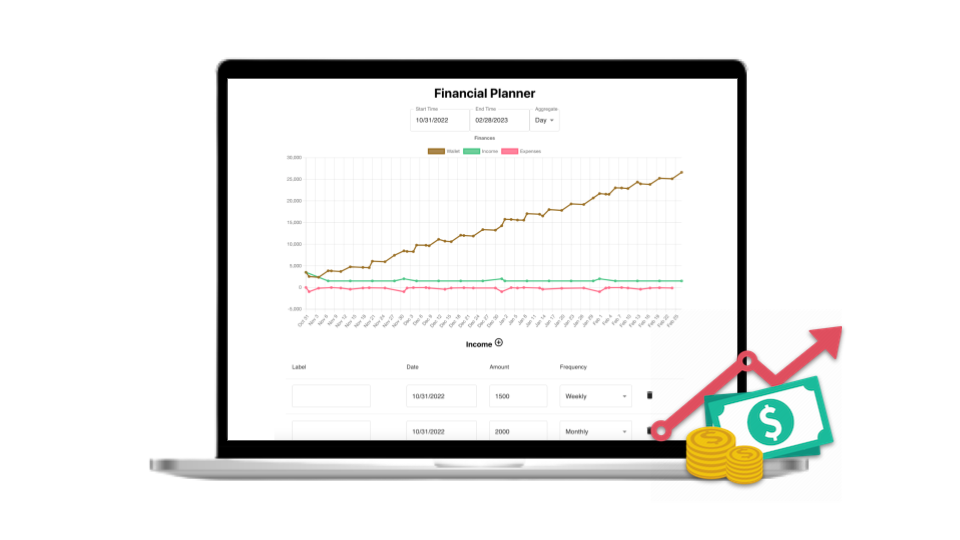
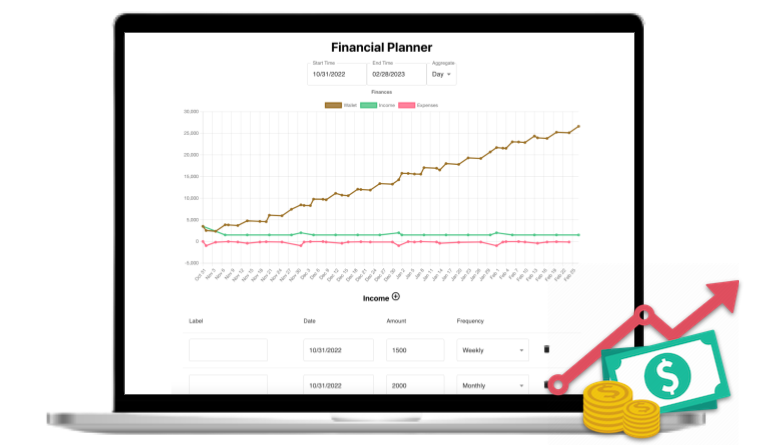
fixed mismatching sizes

diff --git a/src/index.html b/src/index.html
@@ -86,8 +86,8 @@
                 <section id="projects-section">
         
                     <!-- P1 -->
-                    <div data-aos="fade-right" class="my-4 md:flex flex-row">
-                        <div class="mt-auto mr-auto mb-auto ml-0 md:w-80">
+                    <div data-aos="fade-right" class="my-4 md:grid md:grid-cols-3 md:gap-8">
+                        <div class="md:col-span-1 md:mt-auto md:mb-auto md:mr-auto">
                             <a href="https://www.colegannaway.com/sudoku-solver-front-end/">
                                 <h1 class="text-2xl text-center font-bold md:text-4xl md:text-left">
                                     Sudoku Solver
@@ -104,11 +104,13 @@
                                     &rarr;</span>
                             </a>
                         </div>
-                        <div>
-                            <a href="https://www.colegannaway.com/sudoku-solver-front-end/">
-                                <img class="" src="images/SudokuSolverPreview.png"
-                                    alt="Sudoku Solver Preview Image"></img>
-                            </a>
+                        <div class="col-span-2 flex">
+                            <div class="m-auto">
+                                <a href="https://www.colegannaway.com/sudoku-solver-front-end/">
+                                    <img class="" src="images/SudokuSolverPreview.png"
+                                        alt="Sudoku Solver Preview Image"></img>
+                                </a>
+                            </div>
                         </div>
                         <div class="md:hidden text-center">
                             <a href="https://www.colegannaway.com/sudoku-solver-front-end/">
@@ -120,8 +122,8 @@
                     <div class="border-b border-gray-400 m-auto"></div>
 
                     <!-- P2 -->
-                    <div data-aos="fade-right" class="my-4 md:flex flex-row">
-                        <div class="mt-auto mr-auto mb-auto ml-0 md:w-80">
+                    <div data-aos="fade-right" class="my-4 md:grid md:grid-cols-3 md:gap-8">
+                        <div class="md:col-span-1 md:mt-auto md:mb-auto md:mr-auto">
                             <a href="https://www.colegannaway.com/financial-planner/">
                                 <h1 class="text-2xl text-center font-bold md:text-4xl md:text-left">
                                     Financial Planner
@@ -139,11 +141,13 @@
                                     &rarr;</span>
                             </a>
                         </div>
-                        <div>
-                            <a href="https://www.colegannaway.com/financial-planner/">
-                                <img class="" src="images/FinancialPlannerPreview.png"
-                                    alt="Sudoku Solver Preview Image"></img>
-                            </a>
+                        <div class="col-span-2 flex">
+                            <div class="m-auto">
+                                <a href="https://www.colegannaway.com/financial-planner/">
+                                    <img class="" src="images/FinancialPlannerPreview.png"
+                                        alt="Sudoku Solver Preview Image"></img>
+                                </a>
+                            </div>
                         </div>
                         <div class="md:hidden text-center">
                             <a href="https://www.colegannaway.com/financial-planner/">
@@ -156,8 +160,8 @@
                     <div class="border-b border-gray-400 m-auto"></div>
 
                     <!-- P3 -->
-                    <div data-aos="fade-right" class="my-4 md:flex flex-row">
-                        <div class="mt-auto mr-auto mb-auto ml-0 md:w-80">
+                    <div data-aos="fade-right" class="my-4 md:grid md:grid-cols-3 md:gap-8">
+                        <div class="md:col-span-1 md:mt-auto md:mb-auto md:mr-auto">
                             <a href="https://www.dipndrive.com/">
                                 <h1 class="text-2xl text-center font-bold md:text-4xl md:text-left">
                                     Dip N Drive
@@ -174,13 +178,15 @@
                                     &rarr;</span>
                             </a>
                         </div>
-                        <div>
-                            <a href="https://www.dipndrive.com/">
-                                <video playsinline autoplay loop muted style="width: 100%; max-width: 600px;">
-                                    <source src="videos/DipNDrive-Website-Video.mp4" type="video/mp4" />
-                                    Your browser does not support the video tag.
-                                </video>
-                            </a>
+                        <div class="col-span-2 flex">
+                            <div class="m-auto">
+                                <a href="https://www.dipndrive.com/">
+                                    <video playsinline autoplay loop muted style="max-height: 450px;">
+                                        <source src="videos/DipNDrive-Website-Video.mp4" type="video/mp4" />
+                                        Your browser does not support the video tag.
+                                    </video>
+                                </a>
+                            </div>
                         </div>
                         <div class="md:hidden text-center">
                             <a href="https://www.dipndrive.com/">
@@ -193,8 +199,8 @@
                     <div class="border-b border-gray-400 m-auto"></div>
 
                     <!-- P4 -->
-                    <div data-aos="fade-right" class="my-4 md:flex flex-row">
-                        <div class="mt-auto mr-auto mb-auto ml-0 md:w-80">
+                    <div data-aos="fade-right" class="my-4 md:grid md:grid-cols-3 md:gap-8">
+                        <div class="md:col-span-1 md:mt-auto md:mb-auto md:mr-auto">
                             <a href="https://www.colegannaway.com/up-and-down-the-river/">
                                 <h1 class="text-2xl text-center font-bold md:text-4xl md:text-left">
                                     Up And Down The River
@@ -212,11 +218,17 @@
                                     &rarr;</span>
                             </a>
                         </div>
-                        <div>
-                            <a href="https://www.colegannaway.com/up-and-down-the-river/">
-                                <img class="" src="images/UpAndDownTheRiverPreview.png"
-                                    alt="Up And Down The River Preview Image"></img>
-                            </a>
+                        <div class="col-span-2 flex">
+                            <div class="m-auto">
+                                <a href="https://www.colegannaway.com/up-and-down-the-river/">
+                                    <img src="images/UpAndDownTheRiverPreview.png"
+                                        alt="Up And Down The River Preview Image"
+                                        style="vertical-align: middle;"
+                                        ></img>
+                                </a>
+                            </div>
+                            <div class="flex">
+                            </div>
                         </div>
                         <div class="md:hidden text-center">
                             <a href="https://www.colegannaway.com/up-and-down-the-river/">
